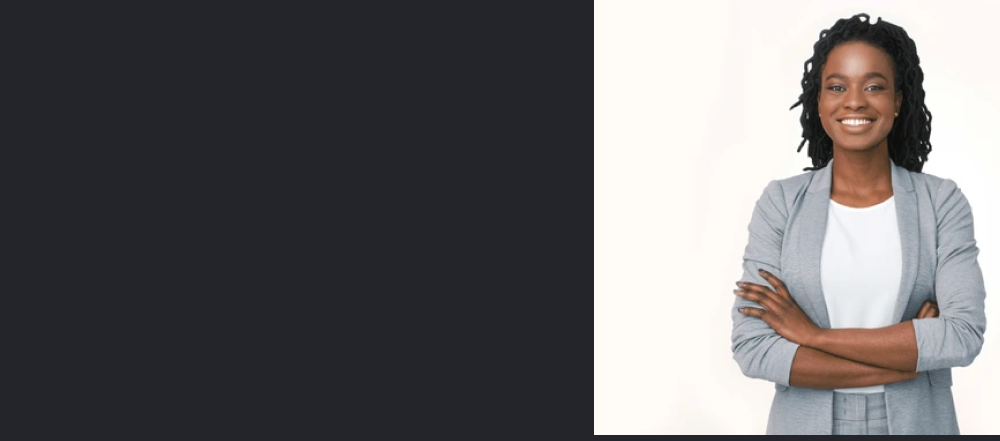
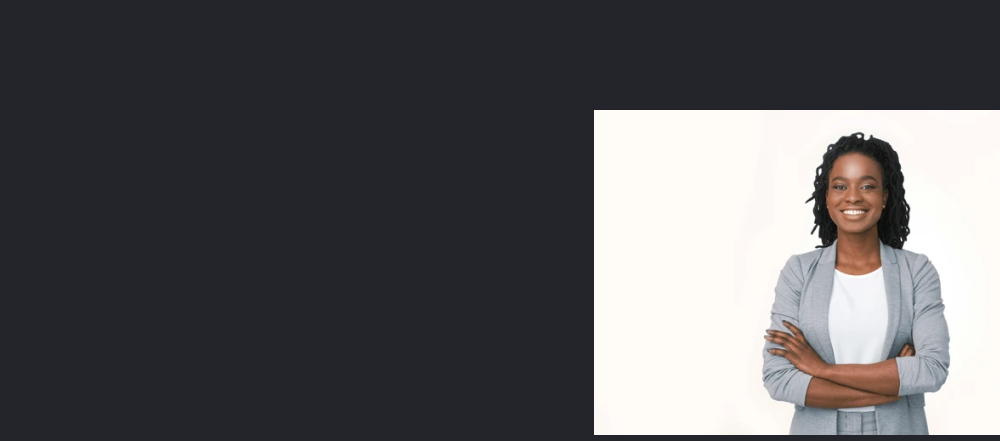
updates

Changed region(s): [[0.589, 0.0, 1.0, 1.0]]

diff --git a/Home.html b/Home.html
@@ -4,13 +4,14 @@
         <meta charset="utf-8">
         <meta name="viewport" content="width=device-width, initial-scale=1.0">
         <title>Nina Faith Ukoha- Aspiring Software Engineer</title>  
-        <link rel="stylesheet" href="homestylesheet.css">
+        <link rel="stylesheet" href="style.css">
         <link rel="stylesheet" href="https://cdnjs.cloudflare.com/ajax/libs/font-awesome/6.4.2/css/all.min.css"></link>
+        <link rel="stylesheet" href="https://cdnjs.cloudflare.com/ajax/libs/font-awesome/5.15.4/css/all.min.css" integrity="sha512-1ycn6IcaQQ40/MKBW2W4Rhis/DbILU74C1vSrLJxCq57o941Ym01SwNsOMqvEBFlcgUa6xLiPY/NS5R+E6ztJQ==" crossorigin="anonymous" referrerpolicy="no-referrer" />
         <script src="https://cdnjs.cloudflare.com/ajax/libs/jquery/3.7.1/jquery.min.js" charset="utf-8"></script>
     </head>
     <body>
         <header>
-            <a href="Home.html" class="logo"> Nina <strong id="projects">Ukoha{}:</strong> </a> 
+            <a href="Home.html" class="logo"> Nina <span id="projects">Ukoha{}:</span> </a> 
             <div class="navigation">
                <ul class="menu">
                     <div class="close-btn"></div>
@@ -46,17 +47,62 @@
             </div>
             <div class="menu-btn"></div>
         </header>
+        <div id="header">  
+            <div class="header-text">
+                <p id="headtext">Aspiring Software Engineer | Web developer</p>
+                <h1 id="headtext2">Hi, I'm <span>Nina</span> Ukoha</h1> 
+            </div>
+        </div>
 
-        <section class="section-home">
-            <div>
-            <img id=image src="Getstarted.png">
-             </div>
-        </section>
+        <!-- about -->
+        <div id="about">
+            <div class="container">
+                <div class="row">
+                    <div class="about-col-1">
+                        <img src="testing.jpg">
+                    </div>
+                    <div class="about-col-2">
+                        <h1 class="sub-title">About Me</h1>
+                        <p>Hello! I'm Nina Faith Ukoha, a dedicated software engineering student at the University of Ottawa, Ontario, Canada
+                             pursuing my Bachelors in Applied Science, Software Engineering(Co-op) in the french immersion stream. 
+                             I'm passionate about transforming theoretical knowledge into practical solutions, engaging in collaborative projects, hackathons, and internships to apply my skills in real-world settings.
+                              My love for problem-solving drives me to turn abstract ideas into functional systems, staying on the cutting edge of industry trends through continuous learning. 
+                              Proficient in Python, Java, HTML5, CSS, JavaScript, SQL, Jquery, React.Js and experienced with Git, PyCharm, Visual Studio Code, Visual Studio Professional, Mac OS, Windows and all Microsft Office Suite tools
+                              , I'm ready to contribute to diverse software engineering projects. By engaging in various projects, I refine teamwork, communication, and leadership which are essential skills in software engineering. 
+                              I am excited about contributing to groundbreaking projects and making a positive impact, join me on this thrilling adventure in the world of software engineering!.</p>
+                        <div class="tab-titles">
+                            <p class="tab-links active-link" onclick="opentab('skills')">Skills</p>
+                            <p class="tab-links" onclick="opentab('experience')">Experience</p>
+                            <p class="tab-links" onclick="opentab('education')">Education</p>
+                        </div>
+                        <div class="tab-contents active-tab" id="skills">
+                        <ul>
+                            <li><span>Web development</span><br>HTML5, CSS, JavaScript,Jquery, React.Js.</li>
+                            <li><span>Back-end development</span><br>Python, Java</li>
+                            <li> <span>Other</span><br>Designing web App interfaces</li>
+                        </ul>
+                        </div>
+                        <div class="tab-contents" id="experience">
+                            <ul>
+                                <li><span>September 2023- December</span><br>Team Member- Cyber Limb Dynamics; University of Ottawa Start-up project </li>
+                                <li><span>September 2022-June 2023</span><br>Information Technology Intern - Lone Star Global Consult Ltd., FCT, Nigeria.</li>
+    
+                            </ul>
+                        </div>
+                        <div class="tab-contents" id="education">
+                            <ul>
+                                <li><span>2023</span><br>Bsc. Software Engineering (French Immersion) - University of Ottawa, Ottawa, Ontario, Canada.</li>
+                                <li><span>2016-2022</span><br>Highschool - Regina Pacis College, Abuja, Nigeria.</li>
+                            </ul>
+                            </div>
+                           
+                    </div>
+                </div>
+            </div>
 
+        </div>
         
-
         
-
         <script type="text/javascript">
         //jquery for toggle dropdown menus
         $(document).ready(function(){
@@ -89,6 +135,19 @@
             var header= document.querySelector("header");
             header.classList.toggle("sticky", window.scrollY >0 );
         });
+
+        var tablinks = document.getElementsByClassName("tab-links");
+        var tabcontents = document.getElementsByClassName("tab-contents");
+        function opentab(tabname){
+            for(tablink of tablinks){
+                tablink.classList.remove("active-link");
+            }
+            for(tabcontent of tabcontents){
+                tabcontent.classList.remove("active-tab");
+            }
+            event.currentTarget.classList.add("active-link");
+            document.getElementById(tabname).classList.add("active-tab");
+        }
         </script>
     </body>
 </html>

diff --git a/contact.html b/contact.html
@@ -6,12 +6,11 @@
         <title>Nina Faith Ukoha- Aspiring Software Engineer</title>  
         <link rel="stylesheet" href="style.css">
         <link rel="stylesheet" href="https://cdnjs.cloudflare.com/ajax/libs/font-awesome/6.4.2/css/all.min.css"></link>
-        <link rel="stylesheet" href="https://cdnjs.cloudflare.com/ajax/libs/font-awesome/5.15.4/css/all.min.css" integrity="sha512-1ycn6IcaQQ40/MKBW2W4Rhis/DbILU74C1vSrLJxCq57o941Ym01SwNsOMqvEBFlcgUa6xLiPY/NS5R+E6ztJQ==" crossorigin="anonymous" referrerpolicy="no-referrer" />
         <script src="https://cdnjs.cloudflare.com/ajax/libs/jquery/3.7.1/jquery.min.js" charset="utf-8"></script>
     </head>
     <body>
         <header>
-            <a href="Home.html" class="logo"> Nina <span id="projects">Ukoha{}:</span> </a> 
+            <a href="Home.html" class="logo"> Nina <strong id="projects">Ukoha</strong> </a> 
             <div class="navigation">
                <ul class="menu">
                     <div class="close-btn"></div>
@@ -47,29 +46,11 @@
             </div>
             <div class="menu-btn"></div>
         </header>
-        <div id="header">
-            <div class="header-text">
-                <p>Aspiring Software Engineer | Web developer</p>
-                <h1>Hi, I'm <span>Nina</span> Ukoha</h1> 
-            </div>
-        </div>
 
-        <!-- about -->
-        <div id="about">
-            <div class="container">
-                <div class="row">
-                    <div class="about-col-1">
-                        <img src="testing.jpg">
-                    </div>
-                    <div class="about-col-2">
-                        <h1>About Me</h1>
-                    </div>
-                </div>
-            </div>
+        <section class="section-home">
+            <h2>ABOUT </h2>
+        </section>
 
-        </div>
-        
-        
         <script type="text/javascript">
         //jquery for toggle dropdown menus
         $(document).ready(function(){

diff --git a/style.css b/style.css
@@ -6,10 +6,21 @@
     
 }
 .header-text{
-    margin-top: 20%;
+    margin-top: 0px;
     font-size: 30px;
+
 }
 
+#headtext{
+    position:relative;
+    top: 30vh;
+    top: 30vw;
+}
+#headtext2{
+    position:relative;
+    top: 40vh;
+    top: 30vw;
+}
 .header-text h1{
     font-size:60px;
     margin-top:20px;
@@ -27,8 +38,8 @@ body{
 }
 #header{
    width:100%; 
-   height: 50vh;
-   background-image: url();
+   height: 100vh;
+   background-image: url(background.png);
    background-size: cover;
    background-position:center;
 }
@@ -293,7 +304,7 @@ header  .navigation .menu.active{
 /* ---------about--------- */
 #about{
     padding: 80px 0;
-    color: rgb(245, 183, 15);
+    color: #e2e2e2;
 
 }
 .row{
@@ -311,4 +322,49 @@ header  .navigation .menu.active{
 }
 .about-col-2{
   flex-basis:60%;   
+}
+.sub-title{
+    font-size: 60px;
+    font-weight: 600;
+    color: white;
+}
+.tab-titles{
+    display:flex;
+    margin:20px 0 40px;
+}
+.tab-links{
+    margin-right:50px;
+    font-size: 18px;
+    font-weight: 500;
+    cursor: pointer;
+    position: relative;
+}
+
+.tab-links::after{
+    content: "";
+    width: 0;
+    height: 3px;
+    background:rgb(255, 204, 0);  
+    position: absolute;
+    left: 0;
+    bottom: -8px;
+    transition: 0.5s;
+}
+.tab-links.active-link::after{
+    width: 50%;
+}
+
+.tab-contents ul li{
+    list-style: none;
+    margin: 10px 0;
+}
+.tab-contents ul li span{
+    color:rgb(245, 183, 15); 
+    font-size: 14px;
+}
+.tab-contents{
+    display: none;
+}
+.tab-contents.active-tab{
+    display: block;
 }

diff --git a/homestylesheet.css b/homestylesheet.css
@@ -20,7 +20,7 @@ section{
 .section-home{
    position: relative;
    min-height: 100vh;
-   background: url(Home_trial.png)no-repeat;
+   background: url(other.png)no-repeat;
    background-size: cover;
    background-position: center;
    display: flex;
